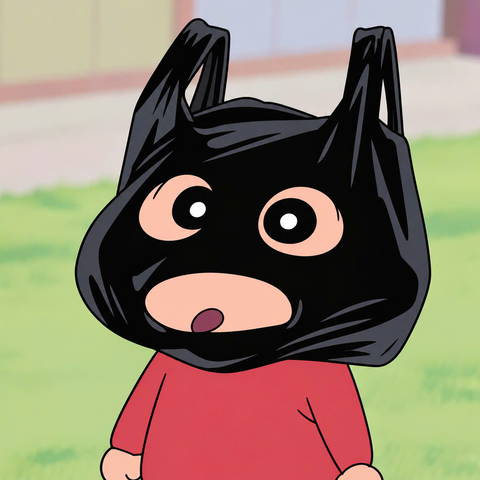
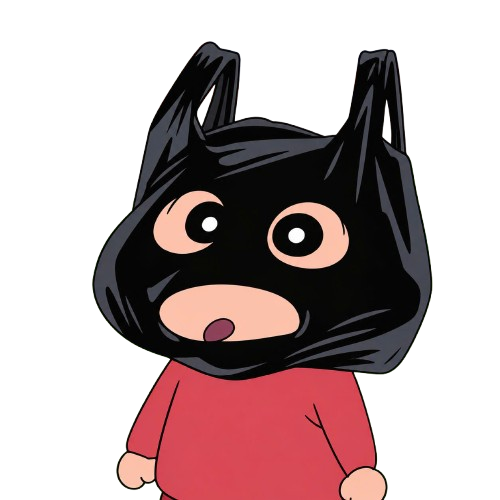
Sửa lớp hiển thị modal, đổi ảnh mascot

diff --git a/src/app/customer/profile/orders/[id]/page.tsx b/src/app/customer/profile/orders/[id]/page.tsx
@@ -893,7 +893,7 @@ export default function OrderDetailPage() {
 
       {/* ── Address change modal ── */}
       {showAddressModal && (
-        <div className="fixed inset-0 z-50 flex items-end justify-center bg-black/40 p-4 sm:items-center" onClick={e => { if (e.target === e.currentTarget) setShowAddressModal(false); }}>
+        <div className="fixed inset-0 z-[100] flex items-end justify-center bg-black/40 p-4 sm:items-center" onClick={e => { if (e.target === e.currentTarget) setShowAddressModal(false); }}>
           <div className="w-full max-w-md rounded-2xl bg-white shadow-xl">
             <div className="flex items-center justify-between border-b border-slate-100 px-5 py-4">
               <h3 className="text-sm font-semibold text-slate-800">Chọn địa chỉ giao hàng</h3>
@@ -975,7 +975,7 @@ export default function OrderDetailPage() {
 
       {/* ── Payment method change modal ── */}
       {showMethodModal && (
-        <div className="fixed inset-0 z-50 flex items-end justify-center bg-black/40 p-4 sm:items-center" onClick={e => { if (e.target === e.currentTarget) setShowMethodModal(false); }}>
+        <div className="fixed inset-0 z-[100] flex items-end justify-center bg-black/40 p-4 sm:items-center" onClick={e => { if (e.target === e.currentTarget) setShowMethodModal(false); }}>
           <div className="w-full max-w-sm rounded-2xl bg-white shadow-xl">
             <div className="flex items-center justify-between border-b border-slate-100 px-5 py-4">
               <h3 className="text-sm font-semibold text-slate-800">Đổi phương thức thanh toán</h3>

diff --git a/src/app/customer/profile/addresses/AddressForm.tsx b/src/app/customer/profile/addresses/AddressForm.tsx
@@ -177,8 +177,8 @@ export default function AddressForm({ initial, onSave, onClose }: Props) {
   };
 
   return (
-    <div className="fixed inset-0 z-50 flex items-center justify-center bg-black/40 p-4">
-      <div className="flex max-h-[90vh] w-full max-w-lg flex-col overflow-hidden rounded-2xl border border-slate-200 bg-white shadow-2xl">
+    <div className="fixed inset-0 z-[100] flex items-center justify-center bg-black/40 p-4">
+      <div className="flex max-h-[90dvh] w-full max-w-lg flex-col overflow-hidden rounded-2xl border border-slate-200 bg-white shadow-2xl">
 
         {/* Modal header */}
         <div className="flex items-center justify-between border-b border-slate-100 px-5 py-4">
@@ -302,7 +302,7 @@ export default function AddressForm({ initial, onSave, onClose }: Props) {
           </div>
 
           {/* Footer */}
-          <div className="flex items-center justify-end gap-3 border-t border-slate-100 px-5 py-4">
+          <div className="sticky bottom-0 mt-auto flex items-center justify-end gap-3 border-t border-slate-100 bg-white px-5 py-4">
             <button type="button" onClick={onClose}
               className="rounded-xl border border-slate-200 px-5 py-2.5 text-sm font-medium text-slate-600 hover:bg-slate-50">
               Hủy

diff --git a/src/app/admin/settings/contact/WidgetSettingsSection.tsx b/src/app/admin/settings/contact/WidgetSettingsSection.tsx
@@ -252,7 +252,6 @@ export default function WidgetSettingsSection({
   }
 
   function handleUpload(channel: WidgetMediaChannel, settingKey: string, file: File) {
-    if (!token) return;
     setUploadingChannel(channel);
     uploadWidgetMedia(token, channel, file)
       .then(({ url }) => {
@@ -265,7 +264,6 @@ export default function WidgetSettingsSection({
   }
 
   function handleResetMedia(channel: WidgetMediaChannel, settingKey: string) {
-    if (!token) return;
     setUploadingChannel(channel);
     deleteWidgetMedia(token, channel)
       .then(() => {

diff --git a/src/components/product/ProductSpecificationsModal.tsx b/src/components/product/ProductSpecificationsModal.tsx
@@ -127,7 +127,7 @@ export default function ProductSpecificationsModal({ open, onClose, product, pro
       aria-modal="true"
       aria-labelledby="product-specifications-modal-title"
       onMouseDown={handleOverlayClick}
-      className="fixed inset-0 z-50 flex items-center justify-center bg-slate-900/60 p-4 backdrop-blur-sm"
+      className="fixed inset-0 z-[100] flex items-center justify-center bg-slate-900/60 p-4 backdrop-blur-sm"
     >
       <div
         ref={dialogRef}

diff --git a/src/components/build-pc/SlotPickerModal.tsx b/src/components/build-pc/SlotPickerModal.tsx
@@ -106,7 +106,7 @@ export default function SlotPickerModal() {
   const selectedProductId = activeSlotSlug ? items[activeSlotSlug]?.product.id : undefined;
 
   return (
-    <div className="fixed inset-0 z-50 flex items-end sm:items-center justify-center">
+    <div className="fixed inset-0 z-[100] flex items-end sm:items-center justify-center">
       {/* Backdrop */}
       <div
         className="absolute inset-0 bg-black/50 backdrop-blur-sm"

diff --git a/src/components/layout/support-widget/MascotAvatar.tsx b/src/components/layout/support-widget/MascotAvatar.tsx
@@ -1,4 +1,4 @@
-const DEFAULT_MASCOT_SRC = '/assets/support-widget/mascot-avatar.png';
+const DEFAULT_MASCOT_SRC = '/assets/support-widget/mascot-avatar.png?v=3';
 
 // Nhân vật linh vật dùng chung cho nút nổi và mục "Chatbot AI" trong panel.
 // `src` cho phép Dashboard ghi đè bằng Avatar do Admin tải lên; rỗng/undefined
